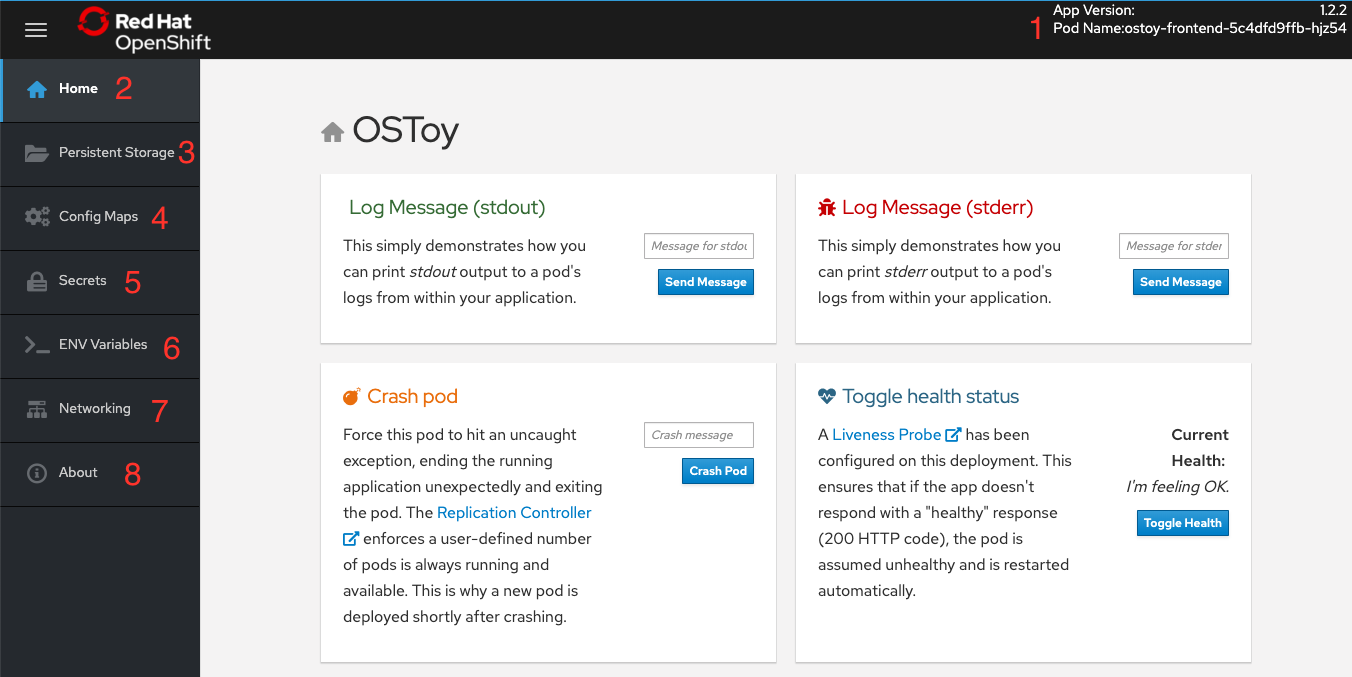
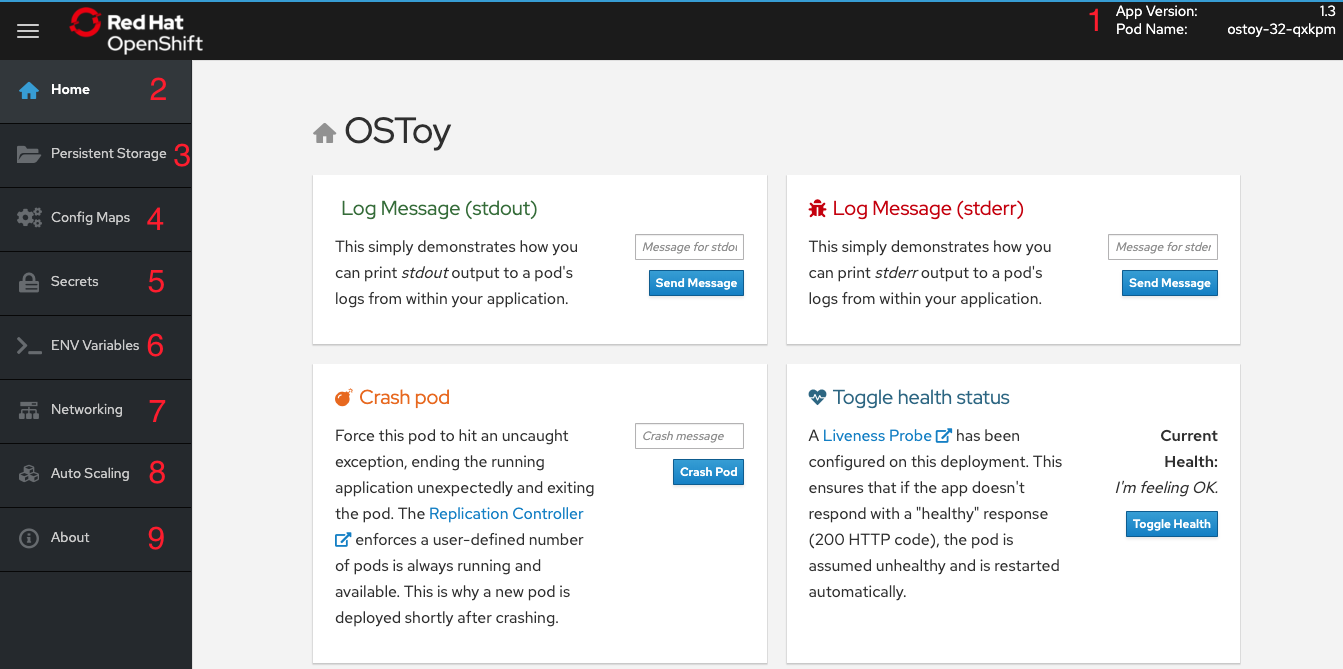
addition of 4 plus corrections

diff --git a/OSD4/8-networking.md b/OSD4/8-networking.md
@@ -5,7 +5,7 @@ Let's review how this application is set up...
 
 ![OSToy Diagram](/images/3-ostoy-arch.png)
 
-As can be seen in the image above, we have defined at least 2 separate pods, each with its own service.  One is the frontend web application (with a service and a publicly accessible route) and the other is the backend microservice with a service object created so that the frontend pod can communicate with the microservice (accross the pods if more than one).  Therefore this microservice is not accessible from outside this cluster, nor from other namespaces/projects (due to OSD's network policy, **ovs-networkpolicy**).  The sole purpose of this microservice is to serve internal web requests and return a JSON object containing the current hostname (which is the podname) and a randomly generated color string.  This color string is used to display a box with that color displayed in the tile titled "Intra-cluster Communication".
+As can be seen in the image above, we have defined at least 2 separate pods, each with its own service.  One is the frontend web application (with a service and a publicly accessible route) and the other is the backend microservice with a service object created so that the frontend pod can communicate with the microservice (across the pods if more than one).  Therefore this microservice is not accessible from outside this cluster, nor from other namespaces/projects (due to OSD's network policy, **ovs-networkpolicy**).  The sole purpose of this microservice is to serve internal web requests and return a JSON object containing the current hostname (which is the podname) and a randomly generated color string.  This color string is used to display a box with that color displayed in the tile titled "Intra-cluster Communication".
 
 ### Networking
 
@@ -55,7 +55,7 @@ ostoy-microservice-86b4c6f559-p594d   1/1       Running   0          1h
 ```
 
 #### 5. Scale pods via Deployment definition
-Let's change our microservice definition yaml to reflect that we want 3 pods instead of the one we see. Download the [ostoy-microservice-deployment.yaml](/yaml/ostoy-microservice-deployment.yaml) and save it on your local machine.
+Let's change our microservice definition yaml to reflect that we want 3 pods instead of the one we see. Download the [ostoy-microservice-deployment.yaml](/yaml/ostoy-microservice-deployment.yaml) and save it on your local machine, if you didn't do so already.
 
 - Open the file using your favorite editor. Ex: `vi ostoy-microservice-deployment.yaml`
 - Find the line that states `replicas: 1` and change that to `replicas: 3`. Then save and quit.
@@ -73,7 +73,7 @@ spec:
 - Assuming you are still logged in via the CLI, execute the following command:
 `oc apply -f ostoy-microservice-deployment.yaml`
 
-- Confirm that there are now 3 pods via the CLI (`oc get pods`) or the web UI (*Overview > expand "ostoy-microservice"*).
+- Confirm that there are now 3 pods via the CLI (`oc get pods`) or the web UI (*Workloads > Deployments > ostoy-microservice*).
 - See this visually by visiting the OSToy app and seeing how many boxes you now see.  It should be three.
 
 ![UI Scale](/images/8-ostoy-colorspods.png)
@@ -88,10 +88,13 @@ Now we will scale the pods down using the command line.
 #### 7. Scale down via web UI
 Lastly let's use the web UI to scale back down to one pod.  
 
-- In the project you created for this app (ie: "ostoy") in the left menu click *Overview > expand "ostoy-microservice"*.  On the right you will see a blue circle with the number 2 in the middle. 
-- Click on the down arrow to the right of that to scale the number of pods down to 1.
+- In the project you created for this app (ie: "ostoy") in the left menu click *Workloads > Deployments > ostoy-microservice*.  You will see a table titled "Deployment Overview" with the left most cell titled "Desired Count". You will see it states "2 pods". Click on the pencil icon.
 
-![UI Scale](/images/8-ostoy-uiscale.png)
+![UI Scale](/images/OSD4/8-ostoy-uiscale1.png)
+
+- Click on the minus sign to scale the number of pods down to 1 and click **Save**.
+
+![UI Scale](/images/OSD4/8-ostoy-uiscale2.png)
 
 - See this visually by visiting the OSToy app and seeing how many boxes you now see.  It should be one.
 - You can also confirm this via the CLI or the web UI

diff --git a/OSD4/12-hpa.md b/OSD4/12-hpa.md
@@ -7,13 +7,13 @@ As defined in the Kubernetes documentation:
 
 We will create an HPA and then use OSToy to generate CPU intensive workloads.  We will then observe how the HPA will scale up the number of pods in order to handle the increased workloads.  
 
-### Create the Horizontal Pod Autoscaler
+#### 1. Create the Horizontal Pod Autoscaler
 
 Run the following command to create the autoscaler. The following command will create an HPA that maintains between 1 and 10 replicas of the Pods controlled by the *ostoy-microservice* DeploymentConfig created. Roughly speaking, the HPA will increase and decrease the number of replicas (via the deployment) to maintain an average CPU utilization across all Pods of 80% (since each pod requests 50 millicores, this means average CPU usage of 40 millicores)
 
 `oc autoscale dc/ostoy-microservice --cpu-percent=80 --min=1 --max=10`
 
-### View the current number of pods
+#### 2. View the current number of pods
 
 On the left menu click on "Autoscaling" to access this portion of the workshop.  
 
@@ -26,7 +26,7 @@ You can use the following command to see only the running microservice pods:
 
 ![HPA Main](/images/12-hpa-mainpage.png)
 
-### Increase the load
+#### 3. Increase the load
 
 Now that we have seen that we only have one pod let's increase the workload that the pod needs to perform. Click the link in the center of the card that says "increase the load".  **Please click only *ONCE*!**
 
@@ -34,15 +34,15 @@ This will generate some CPU intensive calculations.  If you are curious about wh
 
 > **Note:** The page may become slightly unresponsive.  This is normal; so be patient while the new pods spin up.
 
-### See the pods scale up
+#### 4. See the pods scale up
 
 After about a minute the new pods will show up on the page (represented by the colored rectagles). Confirm that the pods did indeed scale up through the web UI or the CLI.
 
 > **Note:** The page may still lag a bit which is normal.
 
-### Review resources in Grafana
+#### 5. Review resources in Grafana
 
-After confirming that the autoscaler did spin up new pods, switch to Grafana so to visually see the resource consumption of the pods and see how the workloads were distributed.
+After confirming that the autoscaler did spin up new pods, switch to Grafana to visually see the resource consumption of the pods and see how the workloads were distributed.
 
 Go to the following url `https://grafana-openshift-monitoring.<number>.<clustername>.openshiftapps.com`
 
@@ -52,7 +52,7 @@ Click on *Home* on the top left and select the *"K8s / Compute Resources / Names
 
 ![Select Dash](/images/12-grafana-dash.png)
 
-Click on *Namespace* and select our project name "ostoy".
+Click on *Namespace* and select our project name "ostoy-s2i".
 
 ![Select NS](/images/12-grafana-ns.png)
 
@@ -63,4 +63,3 @@ Colorful graphs will appear showing resource usage across CPU and memory.  The t
 Mouse over the graph and the tool will display the names and corresponding CPU consumption of each pod as seen below.
 
 ![CPU](/images/12-grafana-metrics.png)
-

diff --git a/OSD4/5-healthcheck.md b/OSD4/5-healthcheck.md
@@ -4,13 +4,13 @@ In this section we will intentionally crash our pods as well as make a pod non-r
 #### 1. Prepare the desktop
 It would be best to prepare by splitting your screen between the OpenShift Web UI and the OSToy application so that you can see the results of our actions immediately.
 
-![Splitscreen](/images/5-ostoy-splitscreen.png)
+![Splitscreen](/images/OSD4/5-ostoy-splitscreen.png)
 
-But if your screen is too small or that just won't work, then open the OSToy application in another tab so you can quickly switch to OpenShift Web Console once you click the button. To get to this deployment in the OpenShift Web Console go to: 
+But if the screen is too small or that just won't work, then open the OSToy application in another tab so you can quickly switch to OpenShift Web Console once you click the button. To get to this deployment in the OpenShift Web Console go to: 
 
-*Applications* > *Deployments* > click the number in the "Last Version" column for the "ostoy-frontend" row
+*Workloads* > *Deployments* > *ostoy-frontend* > *Pods* 
 
-![Deploy Num](/images/5-ostoy-deploynum.png)
+![Deploy Num](/images/OSD4/5-ostoy-deployview.png)
 
 #### 2. Intentionally crash the pod
 Go to the OSToy app, click on *Home* in the left menu, and enter a message in the "Crash Pod" tile (ie: "This is goodbye!") and press the "Crash Pod" button.  This will cause the pod to crash and Kubernetes should restart the pod. After you press the button you will see:
@@ -18,14 +18,14 @@ Go to the OSToy app, click on *Home* in the left menu, and enter a message in th
 ![Crash Message](/images/5-ostoy-crashmsg.png)
 
 #### 3. View the revival
-Quickly switch to the Deployment screen. You will see that the pod is red, meaning it is down but should quickly come back up and show blue.
+Quickly switch to the Deployment - Pods screen (from step 1). You will see that the pod is in an error state, meaning it is down but should quickly come back up.
 
-![Pod Crash](/images/5-ostoy-podcrash.png)
+![Pod Crash](/images/OSD4/5-ostoy-podcrash.png)
 
 #### 4. Confirm
 You can also check in the pod events and further verify that the container has crashed and been restarted.
 
-![Pod Events](/images/5-ostoy-podevents.png)
+![Pod Events](/images/OSD4/5-ostoy-events.png)
 
 #### 5. Make the app malfunction
 Keep the page from the pod events still open from step 4.  Then in the OSToy app click on the "Toggle Health" button, in the "Toggle Health Status" tile.  You will see the "Current Health" switch to "I'm not feeling all that well".
@@ -35,4 +35,4 @@ Keep the page from the pod events still open from step 4.  Then in the OSToy app
 #### 6. Confirm
 This will cause the app to stop responding with a "200 HTTP code". After 3 such consecutive failures ("A"), Kubernetes will kill the pod ("B") and restart it ("C"). Quickly switch back to the pod events tab and you will see that the liveness probe failed and the pod as being restarted.
 
-![Pod Events2](/images/5-ostoy-podevents2.png)
+![Pod Events2](/images/OSD4/5-ostoy-podevents2.png)

diff --git a/OSD4/10-deployment_s2i.md b/OSD4/10-deployment_s2i.md
@@ -5,31 +5,21 @@ There are multiple methods to deploy applications in OpenShift. Let's explore us
 #### 0. Retrieve the login command (if not logged in via CLI)
 If not logged in via the CLI, click on the dropdown arrow next to your name in the top-right of the cluster console and select *Copy Login Command*.
 
-![CLI Login](/images/4-cli-login.png)
+Follow the steps from [Step 1](/OSD4/4-deployment.md#1-retrieve-the-login-command) of the Deployment section.
 
-Then go to your terminal and paste that command and press enter.  You will see a similar confirmation message if you successfully logged in.
-
-```
-$ oc login https://api.demo1234.openshift.com --token=HS1QpKXXXXXXXXXXX
-Logged into "https://api.demo1234.openshift.com" as "0kashi" using the token provided.
-
-You have access to the following projects and can switch between them with 'oc project <projectname>':
-
-    demo
-  * shifty
-  ...
-```
 #### 1. Fork the repository
-In the next section (after this) we will be triggering automated builds based on changes to the source code. In order to trigger S2I builds when you push code into your GitHib repo, you’ll need to setup the GitHub webhook.  And in order to setup the webhooks, you’ll first need to fork the application into your personal GitHub repository.
+In the next section (after this) we will trigger automated builds based on changes to the source code. In order to trigger S2I builds when you push code into your GitHib repo, you’ll need to setup the GitHub webhook.  And in order to setup the webhooks, you’ll first need to fork the application into your personal GitHub repository.
 
 <a class="github-button" href="https://github.com/openshift-cs/ostoy/fork" data-icon="octicon-repo-forked" data-size="large" aria-label="Fork openshift-cs/ostoy on GitHub">Fork</a>
 
 > **NOTE:** Going forward you will need to replace any reference to "<username>" in any of the URLs for commands with your own username.  So in this example I would always replace "<username>" with "0kashi".
 
 #### 2. Create a project
-Create a new project for us to work in for this part. Let's call is `ostoy-s2i`.  
+Create a new project for this part. Let's call it `ostoy-s2i`.  
 
 You can create a new project by running `oc new-project ostoy-s2i`.
+
+### Steps to Deploy OSToy imperatively using S2I
 
 #### 3. Add Secret to OpenShift
 The example emulates a `.env` file and shows how easy it is to move these directly into an
@@ -78,7 +68,7 @@ Before moving onto the next step we should be sure that the microservice was cre
 
 ```
 $ oc status
-In project ostoy-s2i on server https://api.demo1234.openshift.com:443
+In project ostoy-s2i on server https://api.osd4-demo.abc1.p1.openshiftapps.com:6443
 
 svc/ostoy-microservice - 172.30.119.88:8080
   dc/ostoy-microservice deploys istag/ostoy-microservice:latest <-

diff --git a/OSD3.11/8-networking.md b/OSD3.11/8-networking.md
@@ -5,7 +5,7 @@ Let's review how this application is set up...
 
 ![OSToy Diagram](/images/3-ostoy-arch.png)
 
-As can be seen in the image above, we have defined at least 2 separate pods, each with its own service.  One is the frontend web application (with a service and a publicly accessible route) and the other is the backend microservice with a service object created so that the frontend pod can communicate with the microservice (accross the pods if more than one).  Therefore this microservice is not accessible from outside this cluster, nor from other namespaces/projects (due to OSD's network policy, **ovs-networkpolicy**).  The sole purpose of this microservice is to serve internal web requests and return a JSON object containing the current hostname (which is the podname) and a randomly generated color string.  This color string is used to display a box with that color displayed in the tile titled "Intra-cluster Communication".
+As can be seen in the image above, we have defined at least 2 separate pods, each with its own service.  One is the frontend web application (with a service and a publicly accessible route) and the other is the backend microservice with a service object created so that the frontend pod can communicate with the microservice (across the pods if more than one).  Therefore this microservice is not accessible from outside this cluster, nor from other namespaces/projects (due to OSD's network policy, **ovs-networkpolicy**).  The sole purpose of this microservice is to serve internal web requests and return a JSON object containing the current hostname (which is the podname) and a randomly generated color string.  This color string is used to display a box with that color displayed in the tile titled "Intra-cluster Communication".
 
 ### Networking
 
@@ -55,7 +55,7 @@ ostoy-microservice-86b4c6f559-p594d   1/1       Running   0          1h
 ```
 
 #### 5. Scale pods via Deployment definition
-Let's change our microservice definition yaml to reflect that we want 3 pods instead of the one we see. Download the [ostoy-microservice-deployment.yaml](/yaml/ostoy-microservice-deployment.yaml) and save it on your local machine.
+Let's change our microservice definition yaml to reflect that we want 3 pods instead of the one we see. Download the [ostoy-microservice-deployment.yaml](/yaml/ostoy-microservice-deployment.yaml) and save it on your local machine, if you didn't do so already.
 
 - Open the file using your favorite editor. Ex: `vi ostoy-microservice-deployment.yaml`
 - Find the line that states `replicas: 1` and change that to `replicas: 3`. Then save and quit.

diff --git a/OSD4/4-deployment.md b/OSD4/4-deployment.md
@@ -6,7 +6,7 @@ If not logged in via the CLI, click on the dropdown arrow next to your name in t
 
 ![CLI Login](/images/4-cli-login.png)
 
-A new tab will open and select the authentication method you are using (in our case its *github*)
+A new tab will open and select the authentication method you are using (in our case it's *github*)
 
 Click *Display Token*
 
@@ -23,7 +23,7 @@ You don't have any projects. You can try to create a new project, by running
 ```
 
 #### 2. Create new project
-Create a new project called "OSToy" in your cluster by entering the following command:
+Create a new project called "ostoy" in your cluster by entering the following command:
 
 `oc new-project ostoy`
 
@@ -40,7 +40,7 @@ You can add applications to this project with the 'new-app' command. For example
 to build a new example application in Ruby.
 ```
 
-Equivalently you can also create this new project using the web UI by selecting "Application Console" at the top  then clicking on "+Create Project" button on the right.
+Equivalently you can also create this new project using the web UI by clicking on "Create Project" button on the left.
 
 ![UI Create Project](/images/OSD4/4-createnewproj.png)
 
@@ -103,11 +103,11 @@ Get the route so that we can access the application via `oc get route`
 You should see the following response:
 
 ```
-NAME          HOST/PORT                                     PATH      SERVICES              PORT      TERMINATION   WILDCARD
-ostoy-route   ostoy-route-ostoy-osd.993f.demo1234.openshiftapps.com  ostoy-frontend-svc   <all>             None
+NAME          HOST/PORT                                       PATH      SERVICES              PORT      TERMINATION   WILDCARD
+ostoy-route   ostoy-route-ostoy.apps.osd4-demo.abc1.p1.openshiftapps.com  ostoy-frontend-svc   <all>             None
 ```
 
 #### 7. View the app
-Copy `ostoy-route-ostoy-osd.993f.demo1234.openshiftapps.com` above and paste it into your browser and press enter.  You should see the homepage of our application.
+Copy `ostoy-route-ostoy.apps.osd4-demo.abc1.p1.openshiftapps.com` above and paste it into your browser and press enter.  You should see the homepage of our application.
 
 ![Home Page](/images/4-ostoy-homepage.png)

diff --git a/OSD4/6-storage.md b/OSD4/6-storage.md
@@ -3,9 +3,9 @@
 In this section we will execute a simple example of using persistent storage by creating a file that will be stored on a persistent volume in our cluster and then confirm that it will "persist" across pod failures and recreation.
 
 #### 1. View Persistent Volume Claims
-Inside the OpenShift web UI click on *Storage* in the left menu. You will then see a list of all persistent volume claims that our application has made.  In this case there is just one called "ostoy-pvc".  You will also see other pertinent information such as whether it is bound or not, size, access mode and age.  
+Inside the OpenShift web UI click on *Storage* in the left menu then *Persistent Volume Claims*. You will then see a list of all persistent volume claims that our application has made.  In this case there is just one called "ostoy-pvc".  If you click on it you will also see other pertinent information such as whether it is bound or not, size, access mode and age.  
 
-In this case the mode is RWO (Read-Write-Once) which means that the volume can only be mounted to one node, but the pod(s) can both read and write to that volume.  As Persistent Volumes in OSD are backed by EBS it only supports RWO.  ([See here for more info on access modes](https://docs.openshift.com/dedicated/3/architecture/additional_concepts/storage.html#pv-access-modes))
+In this case the mode is RWO (Read-Write-Once) which means that the volume can only be mounted to one node, but the pod(s) can both read and write to that volume.  As Persistent Volumes in OSD are backed by EBS it only supports RWO.  ([See here for more info on access modes](https://docs.openshift.com/dedicated/4/storage/understanding-persistent-storage.html))
 
 #### 2. Create a file to store
 In the OSToy app click on *Persistent Storage* in the left menu.  In the "Filename" area enter a filename for the file you will create. (ie: "test-pv.txt")

diff --git a/OSD4/0-intro.md b/OSD4/0-intro.md
@@ -19,7 +19,7 @@ Today OpenShift Dedicated clusters are available in both 3.11 or 4.1 versions.  
 | Red Hat Managed Integration (RHMI) | Yes  | No (roadmap) |
 
 ### What will we do in this workshop?
-In this lab, you’ll go through a set of tasks that will help you understand some of the concepts of deploying and securing container based applications on top of OpenShift Dedicated 3.11.
+In this lab, you’ll go through a set of tasks that will help you understand some of the concepts of deploying and securing container based applications on top of OpenShift Dedicated 4.1.
 
 Some of the things you’ll be going through:
 
@@ -31,7 +31,6 @@ Some of the things you’ll be going through:
 - Use persistent storage to share data across pod restarts
 - Explore networking within Kubernetes and applications
 - Familiarization with OpenShift and Kubernetes functionality
-
-**TODO:ADD HPA SECTION????**
+- Explore the Horizontal Pod Autoscaler
 
 You’ll be doing the majority of the labs using the OpenShift CLI, but you can also accomplish them using the OpenShift Dedicated web console.

diff --git a/OSD4/9-logging.md b/OSD4/9-logging.md
@@ -1,6 +1,8 @@
 ## Logging
 We will take a look at the available options for logging in OpenShift Dedicated (OSD).  As OSD comes preconfigured with EFK stack (Elasticsearch, Fluentd, Kibana) it is easy to search the logs.  In this section we will take a look at two methods with which one can view their logs. First we will look at the logs directly through the pod using `oc logs`.  Second we will use Kibana to search our logs.
 
+### Output data to the streams/logs
+
 #### 1. Output a message to *stdout* 
 Click on the *Home* menu item and then click in the message box for "Log Message (stdout)" and write any message you want to output to the *stdout* stream.  You can try "**All is well!**".  Then click "Send Message".
 

diff --git a/OSD3.11/12-hpa.md b/OSD3.11/12-hpa.md
@@ -42,7 +42,7 @@ After about a minute the new pods will show up on the page (represented by the c
 
 #### 5. Review resources in Grafana
 
-After confirming that the autoscaler did spin up new pods, switch to Grafana so to visually see the resource consumption of the pods and see how the workloads were distributed.
+After confirming that the autoscaler did spin up new pods, switch to Grafana to visually see the resource consumption of the pods and see how the workloads were distributed.
 
 Go to the following url `https://grafana-openshift-monitoring.<number>.<clustername>.openshiftapps.com`
 

diff --git a/OSD3.11/10-deployment_s2i.md b/OSD3.11/10-deployment_s2i.md
@@ -27,7 +27,7 @@ In the next section (after this) we will be triggering automated builds based on
 > **NOTE:** Going forward you will need to replace any reference to "<username>" in any of the URLs for commands with your own username.  So in this example I would always replace "<username>" with "0kashi".
 
 #### 2. Create a project
-Create a new project for us to work in for this part. Let's call is `ostoy-s2i`.  
+Create a new project for this part. Let's call it `ostoy-s2i`.  
 
 You can create a new project by running `oc new-project ostoy-s2i`.
 

diff --git a/OSD3.11/4-deployment.md b/OSD3.11/4-deployment.md
@@ -37,7 +37,7 @@ You can add applications to this project with the 'new-app' command. For example
 to build a new example application in Ruby.
 ```
 
-Equivalently you can also create this new project using the web UI by selecting "Application Console" at the top  then clicking on "+Create Project" button on the right.
+Equivalently you can also create this new project using the web UI by selecting "Application Console" at the top then clicking on "+Create Project" button on the right.
 
 ![UI Create Project](/images/4-createnewproj.png)
 
